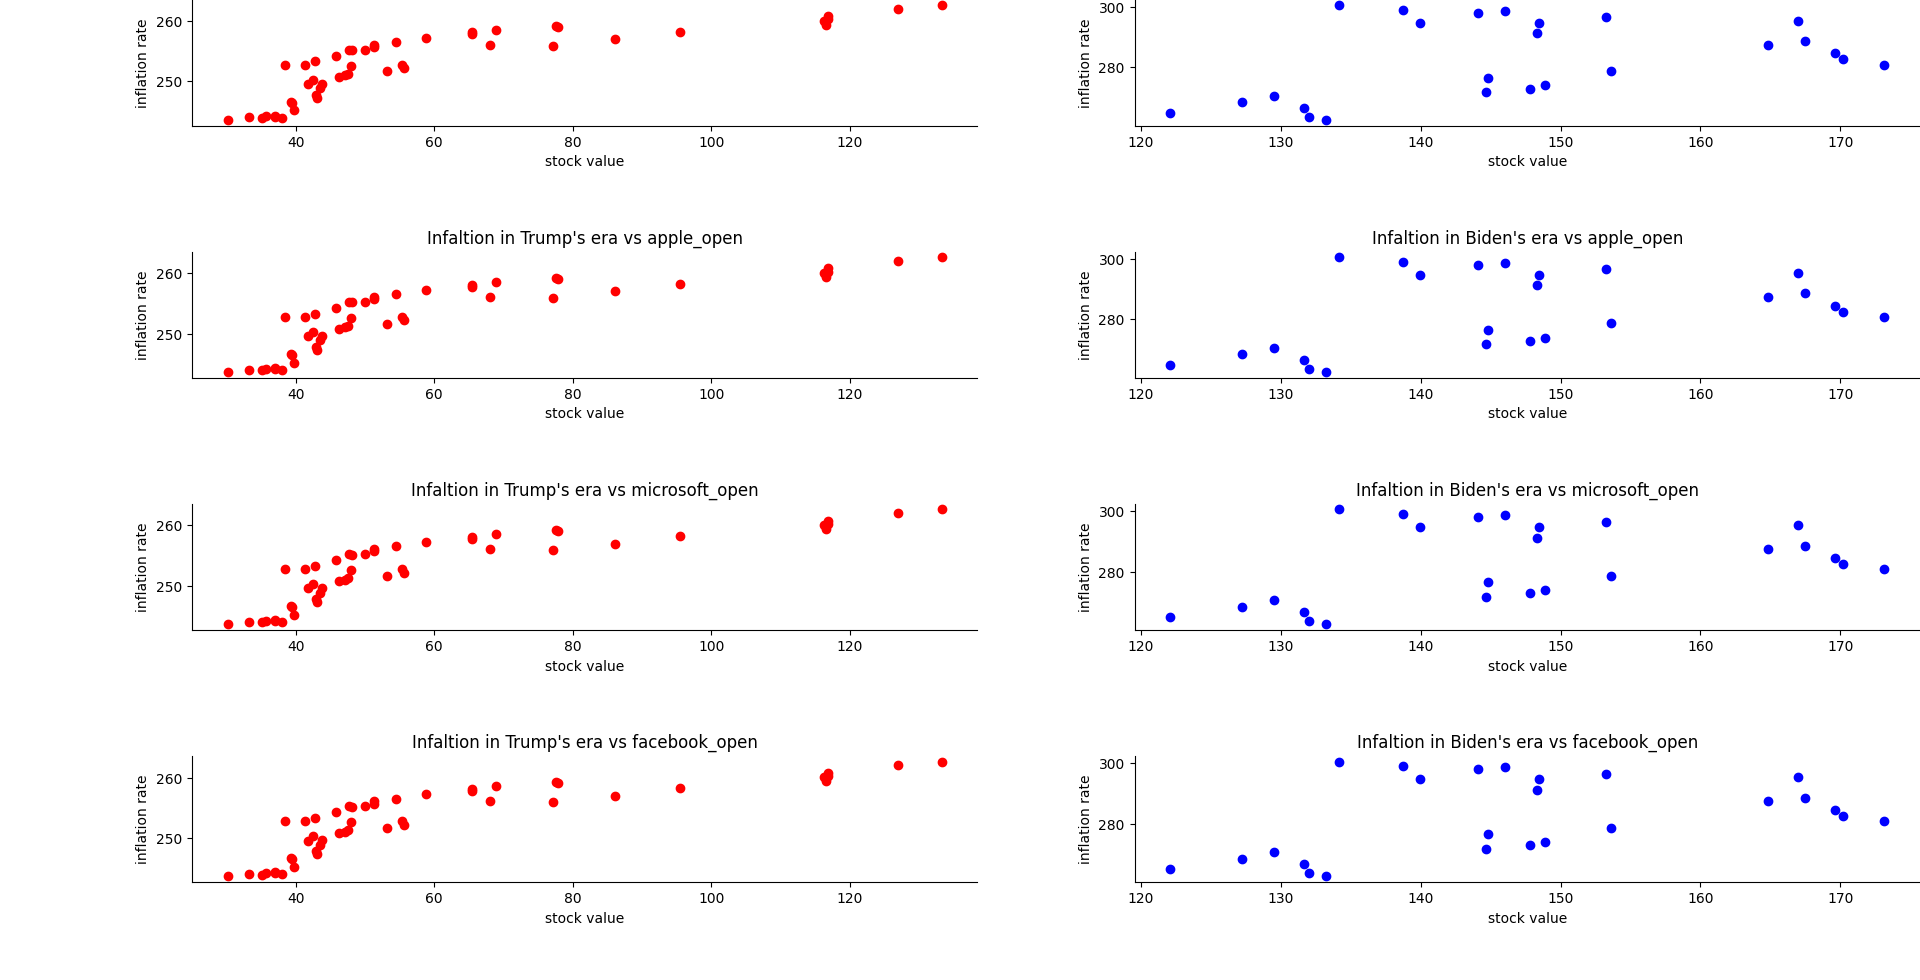
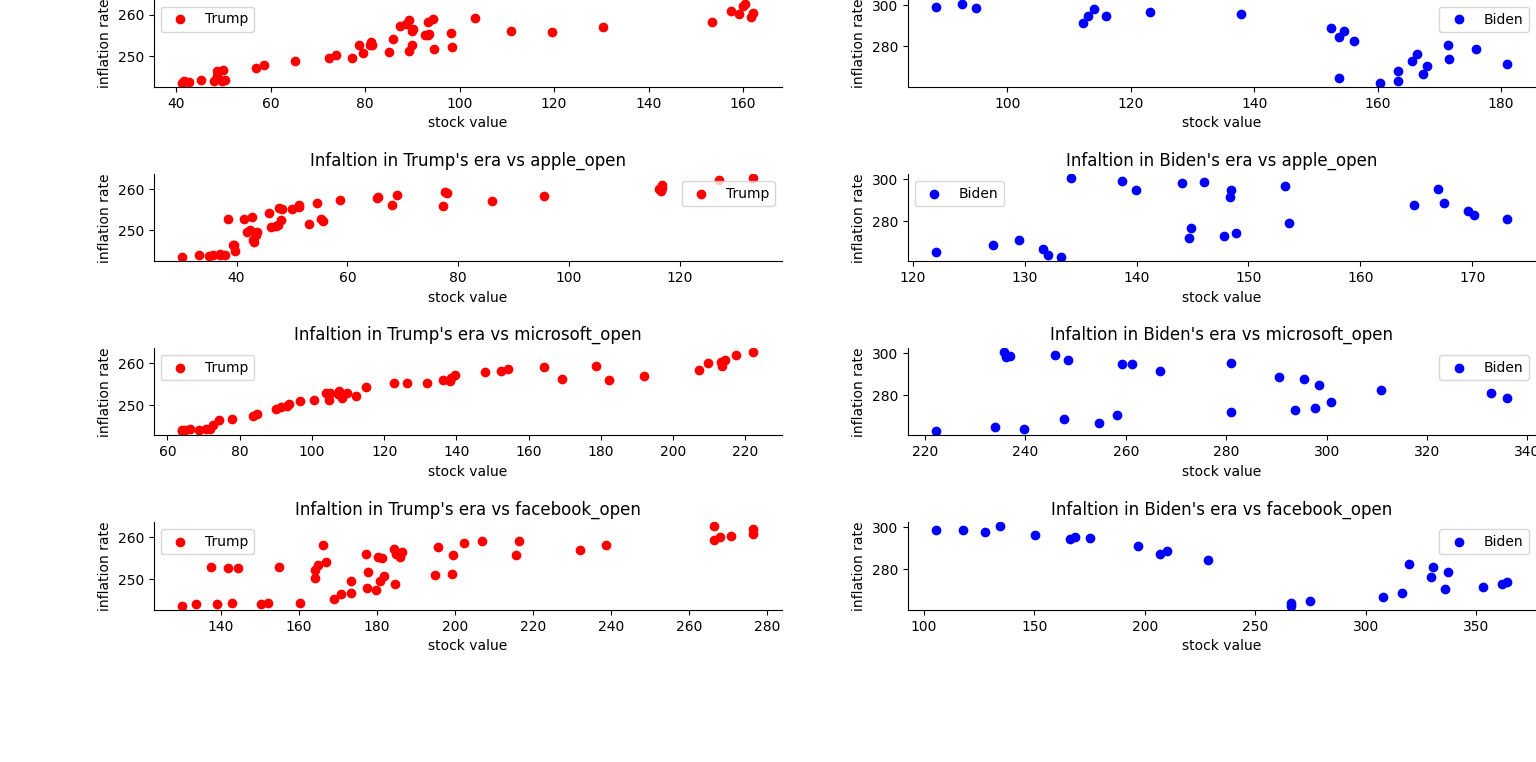
added inflation against gas and crude oil

diff --git a/effect_of_the_US_government_on_the_economy.py b/effect_of_the_US_government_on_the_economy.py
@@ -279,25 +279,79 @@ f.set_figwidth(30)
 plt.subplots_adjust(bottom=0.2,top=1,left=0.1,right=1,wspace=0.2,hspace=1)
 axes=[ax1,ax2,ax3,ax4,ax5,ax6,ax7,ax8]#make the subplots preattier
 for ax in axes:
-    sns.despine()
+    sns.despine()#remove the grid lines
+
 axes_twos=[[ax1,ax2],[ax3,ax4],[ax5,ax6],[ax7,ax8]]
 stockes=['amazon_open','apple_open','microsoft_open','facebook_open']
-for axes,stock in zip(axes_twos,stockes):
-    axes[0].scatter(combine_pivot[name][combine_pivot['president']=='Trump'],combine_pivot['value'][combine_pivot['president']=='Trump'],color='red')
+for axes,stock in zip(axes_twos,stockes):#we use a for loop to create all the subplots
+    axes[0].scatter(combine_pivot[stock][combine_pivot['president']=='Trump'],combine_pivot['value'][combine_pivot['president']=='Trump'],label='Trump',color='red')
     axes[0].set_title('Infaltion in Trump\'s era vs {}'.format(stock))
+    axes[0].legend()
     axes[0].set_xlabel('stock value')
     axes[0].set_ylabel('inflation rate')
 
-    axes[1].scatter(combine_pivot[name][combine_pivot['president']=='Biden'],combine_pivot['value'][combine_pivot['president']=='Biden'],color='blue')
+    axes[1].scatter(combine_pivot[stock][combine_pivot['president']=='Biden'],combine_pivot['value'][combine_pivot['president']=='Biden'],color='blue',label='Biden')
     axes[1].set_title('Infaltion in Biden\'s era vs {}'.format(stock))
     axes[1].set_xlabel('stock value')
     axes[1].set_ylabel('inflation rate')
+    axes[1].legend()
 
 plt.show()
 """That is very interesting. We plotted the inflation rate vs tech companies in Biden's vs Trump's tenure
 We see that when Trump was the president There was a correlation between the stock price and the inflation rate
 When the inflaiton has gone up so has the stock 
-While on Biden's tenure, there was no correlation to speak off, the stock's prices behave abnormally and siminglly at random...
+While on Biden's tenure, when the inflation has gone up the stock prices have accually gone down or stayed the same. 
 We can conclude that the tech indestry was at a much better place when Trump was the president.
-It was a lot more stable and predictable"""
+stock prices have gone up with the inflaiton so people would not lose their money"""
+
+
+#lets filter it by month and year just like the prevoius data set so we can merge it with the inflation rate
+oil_gas['year']=oil_gas['DATE'].apply(lambda date: date.year)
+oil_gas['month']=oil_gas['DATE'].apply(lambda date: date.month)#we add year and month so we can match the values to the inflation data set
+oil_gas_pivot=oil_gas[['year','month','gas','oil']]
+oil_gas_pivot=pd.pivot_table(oil_gas_pivot,index=['year','month'],aggfunc=np.mean).reset_index()#grouping by year and month
+
+def create_date(row):
+    year=row.loc['year']
+    month=row.loc['month']
+    day=1
+    date=datetime.datetime(year=int(year),month=int(month),day=int(day))
+    return date
+
+oil_gas_pivot['date']=oil_gas_pivot.apply(create_date,axis=1)#now we have the avergage oil and gas stock prices for every month of the year
+oil_gas_inflation=pd.merge(left=oil_gas_pivot,right=inflation,on='date',how='inner')
+
+#now lets plot
+f,[[ax1,ax2],[ax3,ax4]]=plt.subplots(ncols=2,nrows=2)
+f.set_figheight(20)
+f.set_figwidth(20)
+axes=[ax1,ax2,ax3,ax4]
+for ax in axes:
+    sns.despine()
+
+axes_group=[[ax1,ax2],[ax3,ax4]]
+stocks=['oil','gas']
+for axes, stock in zip(axes_group,stocks):#we use a for loop to prevent reapting code
+    axes[0].scatter(oil_gas_inflation[stock][oil_gas_inflation['president']=='Trump'],oil_gas_inflation['value'][oil_gas_inflation['president']=='Trump'],color='red',label='Trump')
+    axes[0].set_title('inflation in Trump\'s era vs {}'.format(stock))
+    axes[0].legend()
+    axes[0].set_xlabel('{} price'.format(stock))#adding the name of the current stock we are using 
+    axes[0].set_ylabel('infaltion rate')
+
+    axes[1].scatter(oil_gas_inflation[stock][oil_gas_inflation['president']=='Biden'],oil_gas_inflation['value'][oil_gas_inflation['president']=='Biden'],color='blue',label='Biden')
+    axes[1].set_title('inflation in Biden\'s era vs {}'.format(stock))
+    axes[1].legend()
+    axes[1].set_xlabel('{} price'.format(stock))#adding the name of the current stock we are using 
+    axes[1].set_ylabel('infaltion rate')
+plt.show()
+
+"""Lets take a look of the results we got and analyze them.
+It looks like there is a concridiction between the crude oil market and the gas market
+Lets first take a look at the crude oil markets 
+When inflation went up on trump's tenure the crude oil stock price has gone up and on Biden's tenure when inflation went up the crude oil stock went down 
+The opposite is true for the gas stock price 
+when iflation has gone up the gas stock has gonne down on Trump's tenure
+And when inflation has gone up up Biden's tenure the gas price have gone up
+"""
+
 
